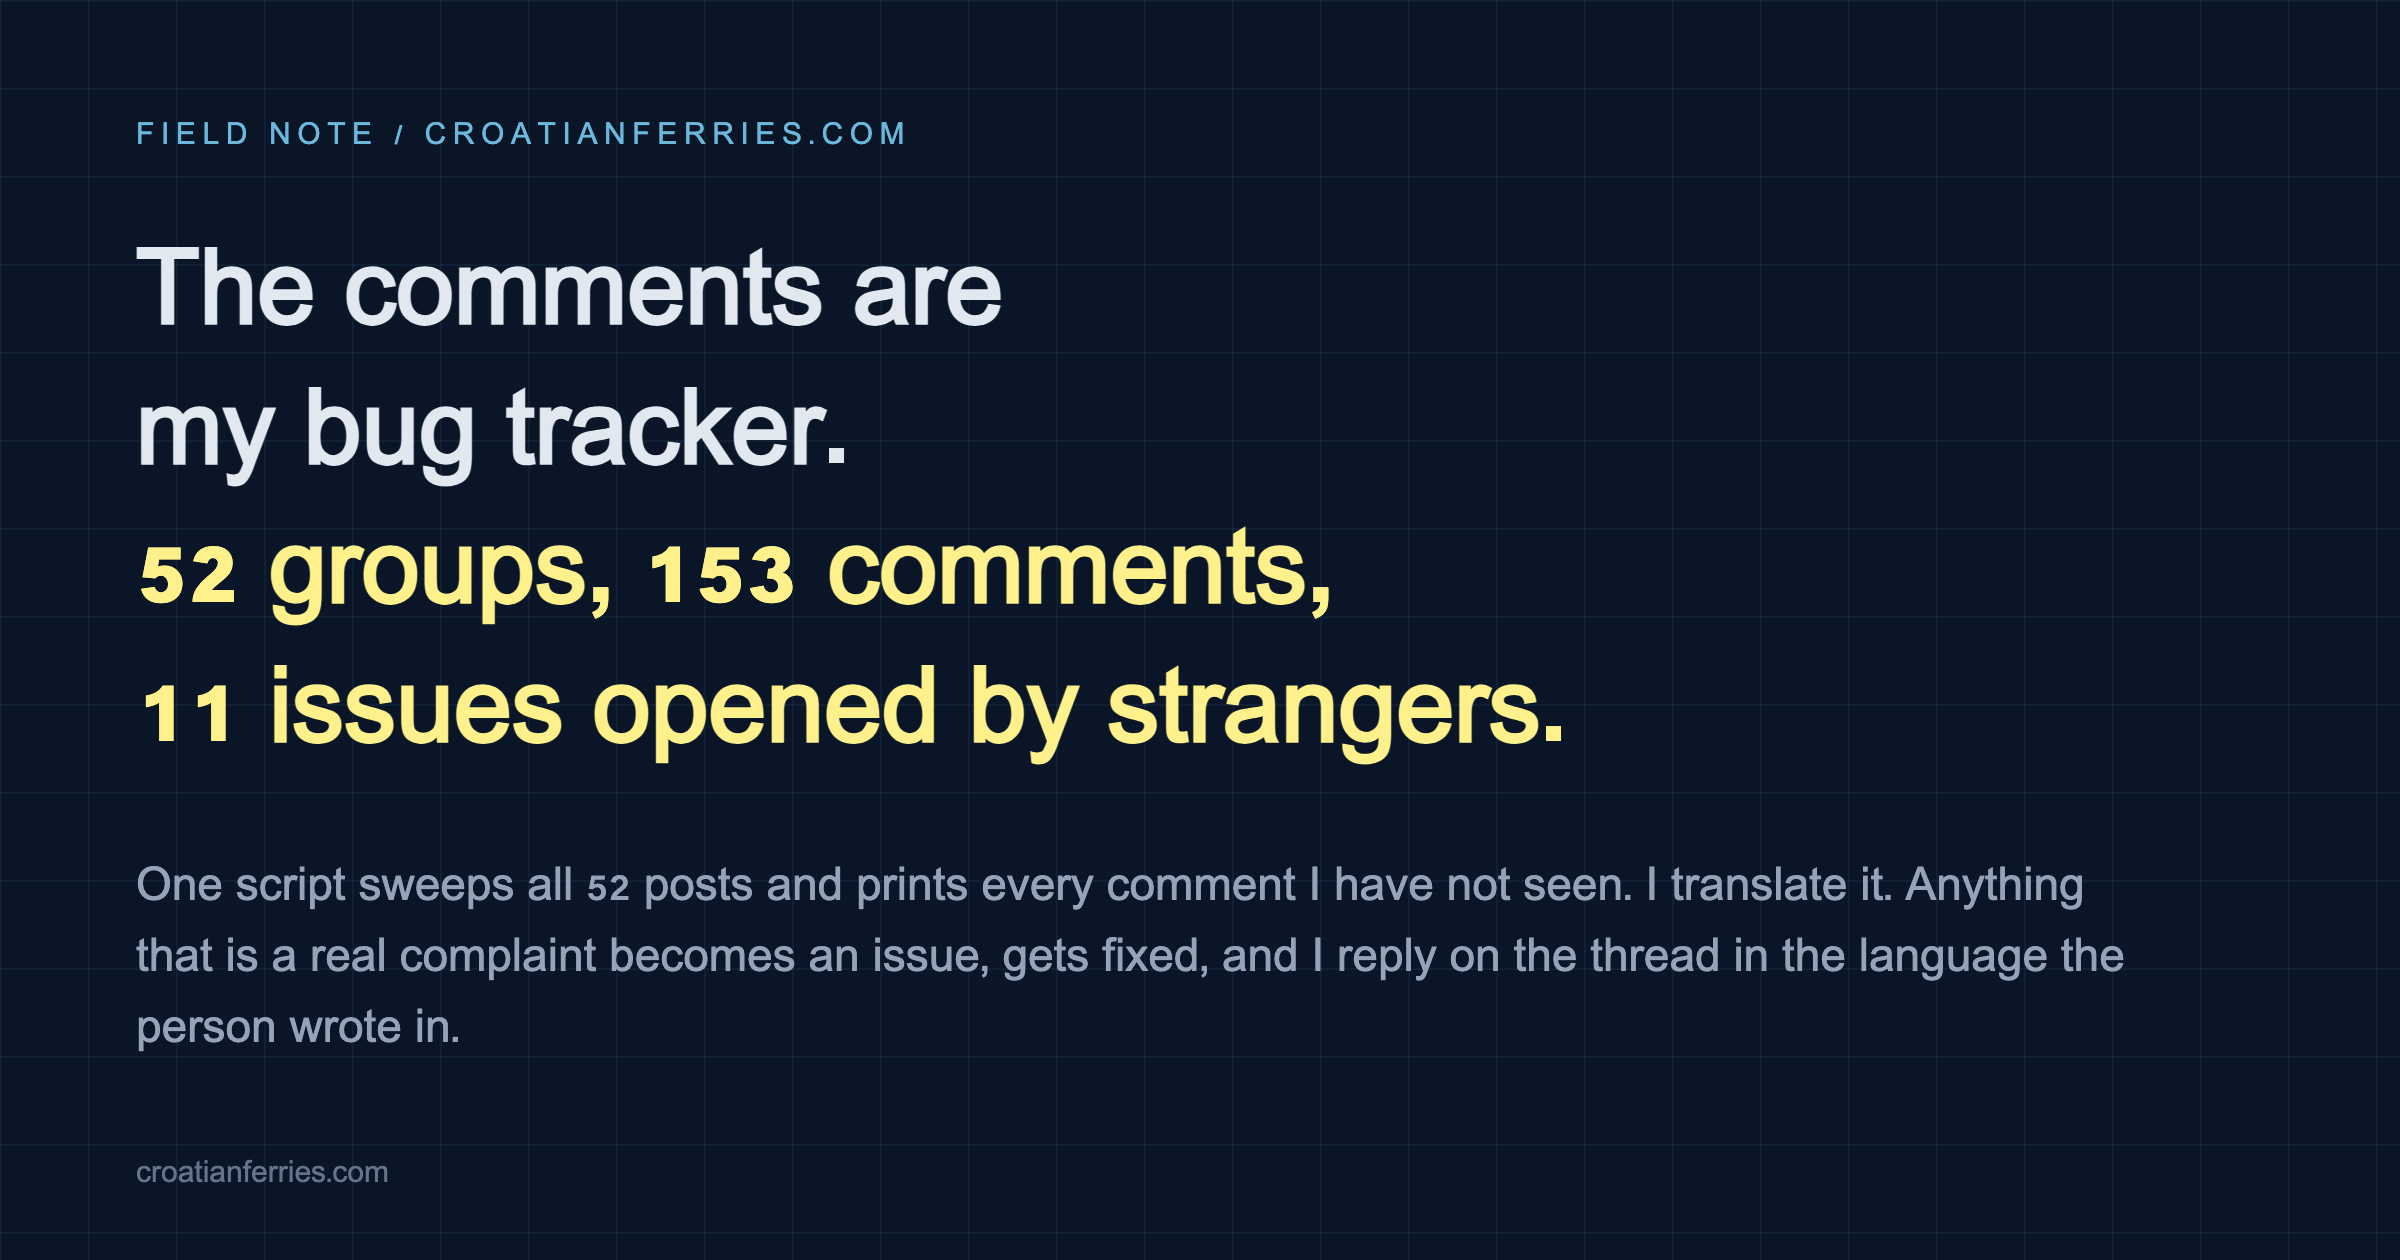
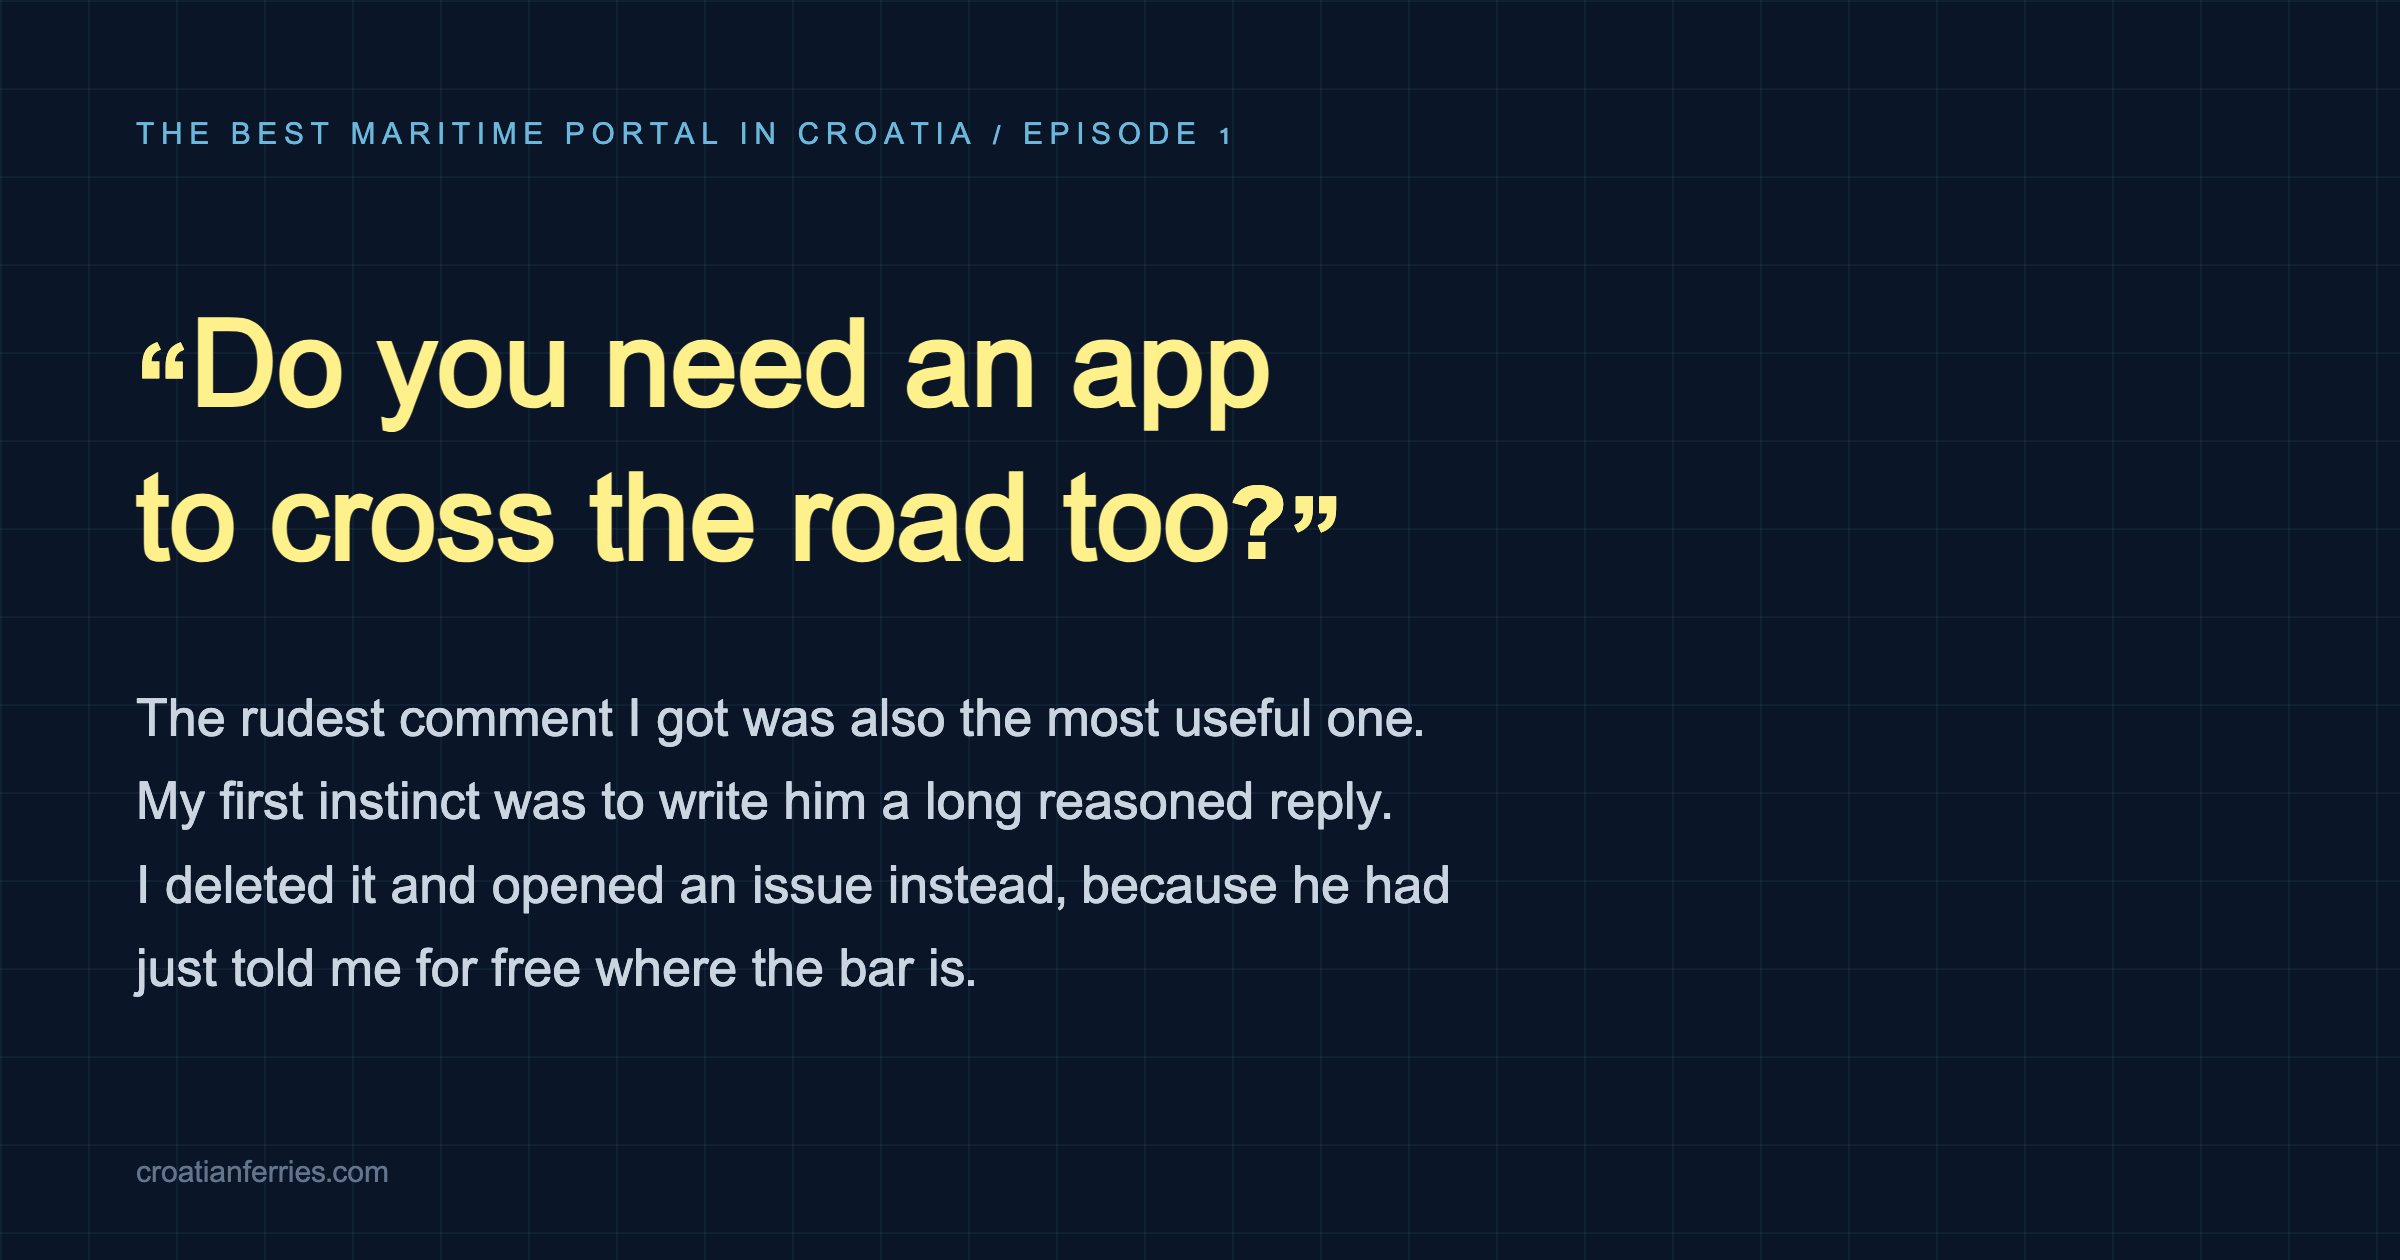
blog: og.png to hero 5, the hate-comment card Gal picked
Claude-Session: https://claude.ai/code/session_01TQqWR6jNzVWqWyGNXJmu8m

diff --git a/social/ferry-outreach/out-choices.html b/social/ferry-outreach/out-choices.html
@@ -155,9 +155,9 @@
 
 <section class="step">
   <h2>The post, Hebrew</h2>
-  <p class="sub">2,520 characters (cap 3,000). אמ!לק opener with the number in line 1, the honest numbers
-  block, five real comments with the minutes, the hate block, the paragraph where you delete your own rebuttal, and
-  the small-beats-big payoff.</p>
+  <p class="sub">2,574 characters (cap 3,000). אמ!לק opener with the number in line 1, the honest numbers
+  block, five real comments with the minutes, the hate block, the paragraph where you delete your own rebuttal, the small-beats-big payoff, and the series line
+  you liked, kept at the end as well as in the hook.</p>
   <div class="copybar"><button class="copybtn" data-copy="post-he">Copy Hebrew post</button></div>
   <pre id="post-he" class="term" style="direction:rtl;text-align:right;white-space:pre-wrap">אמ!לק -&gt; מנסה לבנות את הפורטל הימי הכי טוב בקרואטיה, פרק 1: פרסמתי את האתר ב-52 קבוצות פייסבוק, ו-11 אישיוז בריפו שלי נפתחו על ידי אנשים שאני לא מכיר, בתגובות.
 
@@ -190,12 +190,12 @@
 
 והדבר הכי לא צפוי: הקבוצות הקטנות מוחקות את הגדולות. קבוצת תיירות פאן-קרואטית עם עשרות אלפי חברים החזירה לי אפס. קבוצה של אי אחד עם כמה אלפי מקומיים החזירה 194 לייקים ובאג אמיתי. וזה גם עובד הפוך: הקבוצות הגדולות הן בדיוק אלה שמחזיקות לך את הפוסט באישור מנהל עד שהוא מת.
 
-הסקריפטים, המספרים והתהליך המלא בתגובה הראשונה.</pre>
+זה פוסט 1 בסדרה על להפוך אתר קטן לפורטל הימי הכי טוב בקרואטיה. הסקריפטים והתהליך המלא בתגובה הראשונה.</pre>
 </section>
 
 <section class="step">
   <h2>The post, English</h2>
-  <p class="sub">2,956 characters, trimmed to clear the cap.</p>
+  <p class="sub">2,982 characters, trimmed to clear the cap.</p>
   <div class="copybar"><button class="copybtn" data-copy="post-en">Copy English post</button></div>
   <pre id="post-en" class="term" style="white-space:pre-wrap">TL;DR -&gt; Trying to build the best maritime portal in Croatia, episode 1: I posted the site into 52 Facebook groups, and 11 issues in my repo were opened by strangers, in the comments.
 
@@ -204,7 +204,7 @@ There is no marketing budget for a free project. What there is: island groups. O
 The numbers, including the part nobody measures:
 52 posts. On 37 I can even read the counters: 1,211 likes, 153 comments, 39 shares.
 8 of those 37 sit at a flat zero.
-And 15 posts I cannot measure at all: 6 still held for admin approval, 9 that simply do not render.
+And 15 I cannot measure at all: 6 still held for admin approval, 9 that do not render.
 So nearly a third of my marketing may not have happened. Nobody counts the posts that never posted.
 
 But the comments are the story. I turned them into a bug tracker. One script walks all 52 posts and prints every comment I have not seen yet, I translate it, and anything that is a real complaint becomes an issue.
@@ -213,7 +213,7 @@ What came out of that, all of it real:
 - Mirela told me the word &quot;vozni red&quot; grates on the ear, that is what a bus timetable is called. A ferry has a &quot;plovidbeni red&quot;. Fixed and deployed in 31 minutes. No amount of market research was going to hand me that.
 - Kuzma wrote &quot;this is valid to 6.9, not 27.9&quot;. He was right. I had a parsing bug in the footnotes. 34 minutes.
 - Mateja looked for the Stinica - Mišnjak line and could not find it. I did not have that operator at all. It went in with its whole annual schedule, 58 minutes.
-- Luka wrote that the camera at Prizna does not cover the vehicle queue, so you cannot estimate anything from it. I went and looked. He is right. That is a person who physically stands there.
+- Luka wrote that the camera at Prizna does not cover the vehicle queue. I went and looked. He is right. That is a person who physically stands there.
 
 And on every one I went back to the comment itself, in Croatian or German or English, whichever he wrote in, and said what I fixed.
 
@@ -226,7 +226,7 @@ And my first instinct was to argue. I sat and wrote one of them a long reasoned 
 
 And the least expected part: the small groups wipe the floor with the big ones. A pan-Croatia travel group with tens of thousands of members returned zero. A single-island group with a few thousand locals returned 194 likes and a real bug. In reverse too: the big groups are exactly the ones that hold your post in admin approval until it dies.
 
-The scripts, the numbers and the full process in the first comment.</pre>
+This is post 1 in a series on turning a small site into the best maritime portal in Croatia. The scripts and the full process in the first comment.</pre>
 </section>
 
 <section class="step">
@@ -295,7 +295,9 @@ The scripts, the numbers and the full process in the first comment.</pre>
   <div id="series" data-persist-choice class="opts small">
     <div class="opt" data-value="keep"><div class="opt-head"><span class="dot"></span>
       <b>Keep the series line</b> <span class="rec">RECOMMENDED</span></div>
-      <p class="why">The freelance series worked with the same device. Proposed run: 2. the queue camera (computer
+      <p class="why">It now runs in BOTH places, as you asked: the episode frame opens line 1 (מנסה לבנות את הפורטל
+      הימי הכי טוב בקרואטיה, פרק 1) and the sentence you liked closes the post unchanged. It reads as a bookend
+      rather than a repeat because the opener is an ambition and the closer is a promise. Proposed run: 2. the queue camera (computer
       vision on the HAK cameras, the thing this actually started from) &middot; 3. the verification oracle, where the
       site is checked against a competitor and loses 7 times &middot; 4. the 64-line state register and why operators
       are hand-kept &middot; 5. four languages and what the German and Italian reviewers changed.</p></div>

diff --git a/social/ferry-outreach/choices-body.html b/social/ferry-outreach/choices-body.html
@@ -33,9 +33,9 @@
 
 <section class="step">
   <h2>The post, Hebrew</h2>
-  <p class="sub">2,520 characters (cap 3,000). אמ!לק opener with the number in line 1, the honest numbers
-  block, five real comments with the minutes, the hate block, the paragraph where you delete your own rebuttal, and
-  the small-beats-big payoff.</p>
+  <p class="sub">2,574 characters (cap 3,000). אמ!לק opener with the number in line 1, the honest numbers
+  block, five real comments with the minutes, the hate block, the paragraph where you delete your own rebuttal, the small-beats-big payoff, and the series line
+  you liked, kept at the end as well as in the hook.</p>
   <div class="copybar"><button class="copybtn" data-copy="post-he">Copy Hebrew post</button></div>
   <pre id="post-he" class="term" style="direction:rtl;text-align:right;white-space:pre-wrap">אמ!לק -&gt; מנסה לבנות את הפורטל הימי הכי טוב בקרואטיה, פרק 1: פרסמתי את האתר ב-52 קבוצות פייסבוק, ו-11 אישיוז בריפו שלי נפתחו על ידי אנשים שאני לא מכיר, בתגובות.
 
@@ -68,12 +68,12 @@
 
 והדבר הכי לא צפוי: הקבוצות הקטנות מוחקות את הגדולות. קבוצת תיירות פאן-קרואטית עם עשרות אלפי חברים החזירה לי אפס. קבוצה של אי אחד עם כמה אלפי מקומיים החזירה 194 לייקים ובאג אמיתי. וזה גם עובד הפוך: הקבוצות הגדולות הן בדיוק אלה שמחזיקות לך את הפוסט באישור מנהל עד שהוא מת.
 
-הסקריפטים, המספרים והתהליך המלא בתגובה הראשונה.</pre>
+זה פוסט 1 בסדרה על להפוך אתר קטן לפורטל הימי הכי טוב בקרואטיה. הסקריפטים והתהליך המלא בתגובה הראשונה.</pre>
 </section>
 
 <section class="step">
   <h2>The post, English</h2>
-  <p class="sub">2,956 characters, trimmed to clear the cap.</p>
+  <p class="sub">2,982 characters, trimmed to clear the cap.</p>
   <div class="copybar"><button class="copybtn" data-copy="post-en">Copy English post</button></div>
   <pre id="post-en" class="term" style="white-space:pre-wrap">TL;DR -&gt; Trying to build the best maritime portal in Croatia, episode 1: I posted the site into 52 Facebook groups, and 11 issues in my repo were opened by strangers, in the comments.
 
@@ -82,7 +82,7 @@ There is no marketing budget for a free project. What there is: island groups. O
 The numbers, including the part nobody measures:
 52 posts. On 37 I can even read the counters: 1,211 likes, 153 comments, 39 shares.
 8 of those 37 sit at a flat zero.
-And 15 posts I cannot measure at all: 6 still held for admin approval, 9 that simply do not render.
+And 15 I cannot measure at all: 6 still held for admin approval, 9 that do not render.
 So nearly a third of my marketing may not have happened. Nobody counts the posts that never posted.
 
 But the comments are the story. I turned them into a bug tracker. One script walks all 52 posts and prints every comment I have not seen yet, I translate it, and anything that is a real complaint becomes an issue.
@@ -91,7 +91,7 @@ What came out of that, all of it real:
 - Mirela told me the word &quot;vozni red&quot; grates on the ear, that is what a bus timetable is called. A ferry has a &quot;plovidbeni red&quot;. Fixed and deployed in 31 minutes. No amount of market research was going to hand me that.
 - Kuzma wrote &quot;this is valid to 6.9, not 27.9&quot;. He was right. I had a parsing bug in the footnotes. 34 minutes.
 - Mateja looked for the Stinica - Mišnjak line and could not find it. I did not have that operator at all. It went in with its whole annual schedule, 58 minutes.
-- Luka wrote that the camera at Prizna does not cover the vehicle queue, so you cannot estimate anything from it. I went and looked. He is right. That is a person who physically stands there.
+- Luka wrote that the camera at Prizna does not cover the vehicle queue. I went and looked. He is right. That is a person who physically stands there.
 
 And on every one I went back to the comment itself, in Croatian or German or English, whichever he wrote in, and said what I fixed.
 
@@ -104,7 +104,7 @@ And my first instinct was to argue. I sat and wrote one of them a long reasoned 
 
 And the least expected part: the small groups wipe the floor with the big ones. A pan-Croatia travel group with tens of thousands of members returned zero. A single-island group with a few thousand locals returned 194 likes and a real bug. In reverse too: the big groups are exactly the ones that hold your post in admin approval until it dies.
 
-The scripts, the numbers and the full process in the first comment.</pre>
+This is post 1 in a series on turning a small site into the best maritime portal in Croatia. The scripts and the full process in the first comment.</pre>
 </section>
 
 <section class="step">
@@ -173,7 +173,9 @@ The scripts, the numbers and the full process in the first comment.</pre>
   <div id="series" data-persist-choice class="opts small">
     <div class="opt" data-value="keep"><div class="opt-head"><span class="dot"></span>
       <b>Keep the series line</b> <span class="rec">RECOMMENDED</span></div>
-      <p class="why">The freelance series worked with the same device. Proposed run: 2. the queue camera (computer
+      <p class="why">It now runs in BOTH places, as you asked: the episode frame opens line 1 (מנסה לבנות את הפורטל
+      הימי הכי טוב בקרואטיה, פרק 1) and the sentence you liked closes the post unchanged. It reads as a bookend
+      rather than a repeat because the opener is an ambition and the closer is a promise. Proposed run: 2. the queue camera (computer
       vision on the HAK cameras, the thing this actually started from) &middot; 3. the verification oracle, where the
       site is checked against a competitor and loses 7 times &middot; 4. the 64-line state register and why operators
       are hand-kept &middot; 5. four languages and what the German and Italian reviewers changed.</p></div>

diff --git a/social/ferry-outreach/gen-doc.py b/social/ferry-outreach/gen-doc.py
@@ -110,8 +110,8 @@ BODY = f"""
 <section class="step">
   <h2>The post, Hebrew</h2>
   <p class="sub">{len(POST_HE):,} characters (cap 3,000). אמ!לק opener with the number in line 1, the honest numbers
-  block, five real comments with the minutes, the hate block, the paragraph where you delete your own rebuttal, and
-  the small-beats-big payoff.</p>
+  block, five real comments with the minutes, the hate block, the paragraph where you delete your own rebuttal, the small-beats-big payoff, and the series line
+  you liked, kept at the end as well as in the hook.</p>
   <div class="copybar"><button class="copybtn" data-copy="post-he">Copy Hebrew post</button></div>
   {pre("post-he", POST_HE, True)}
 </section>
@@ -189,7 +189,9 @@ BODY = f"""
   <div id="series" data-persist-choice class="opts small">
     <div class="opt" data-value="keep"><div class="opt-head"><span class="dot"></span>
       <b>Keep the series line</b> <span class="rec">RECOMMENDED</span></div>
-      <p class="why">The freelance series worked with the same device. Proposed run: 2. the queue camera (computer
+      <p class="why">It now runs in BOTH places, as you asked: the episode frame opens line 1 (מנסה לבנות את הפורטל
+      הימי הכי טוב בקרואטיה, פרק 1) and the sentence you liked closes the post unchanged. It reads as a bookend
+      rather than a repeat because the opener is an ambition and the closer is a promise. Proposed run: 2. the queue camera (computer
       vision on the HAK cameras, the thing this actually started from) &middot; 3. the verification oracle, where the
       site is checked against a competitor and loses 7 times &middot; 4. the 64-line state register and why operators
       are hand-kept &middot; 5. four languages and what the German and Italian reviewers changed.</p></div>
